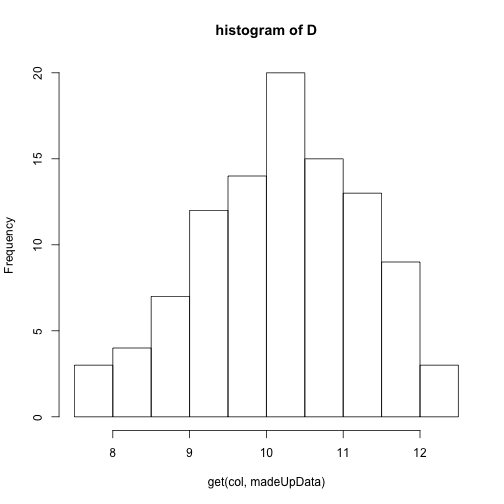
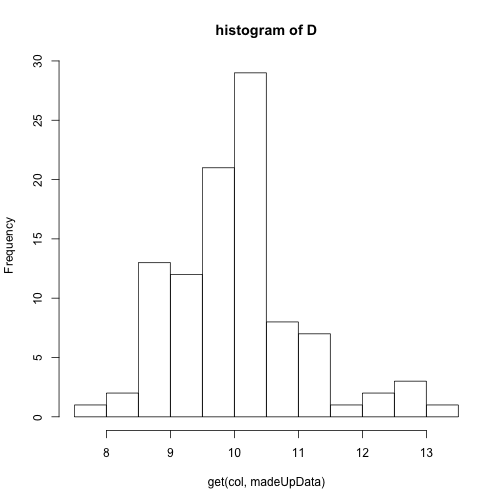
Add figures for May25 slides

diff --git a/slides/QuestionsMay25.md b/slides/QuestionsMay25.md
@@ -46,12 +46,12 @@ round(head(madeUpData),2)
 
 ```
       A     B     C     D     E     F
-1  8.66 10.52 10.04  9.37 10.60 11.02
-2  8.06 12.04 10.00  8.93  8.54  8.43
-3  8.55  8.90 10.81 10.45  9.73 10.32
-4  9.42 11.38  8.91  8.84  9.80 10.43
-5  9.14 10.23  9.31 11.46 11.02  9.99
-6 10.99  9.29  8.42  9.30  8.72  9.61
+1  9.80  9.70 10.15  8.71 10.93 10.99
+2 10.39  9.20 10.04 10.04 11.53  9.60
+3 10.83  8.41 10.34 11.64 10.21  9.57
+4 10.44 11.18  9.23  9.74  9.46 10.01
+5  9.00  9.51 10.14 10.36 10.33 11.78
+6  9.34 11.55 10.28  8.71 10.73 10.24
 ```
 
 How do you plot multiple variables in a histogram without melting?
